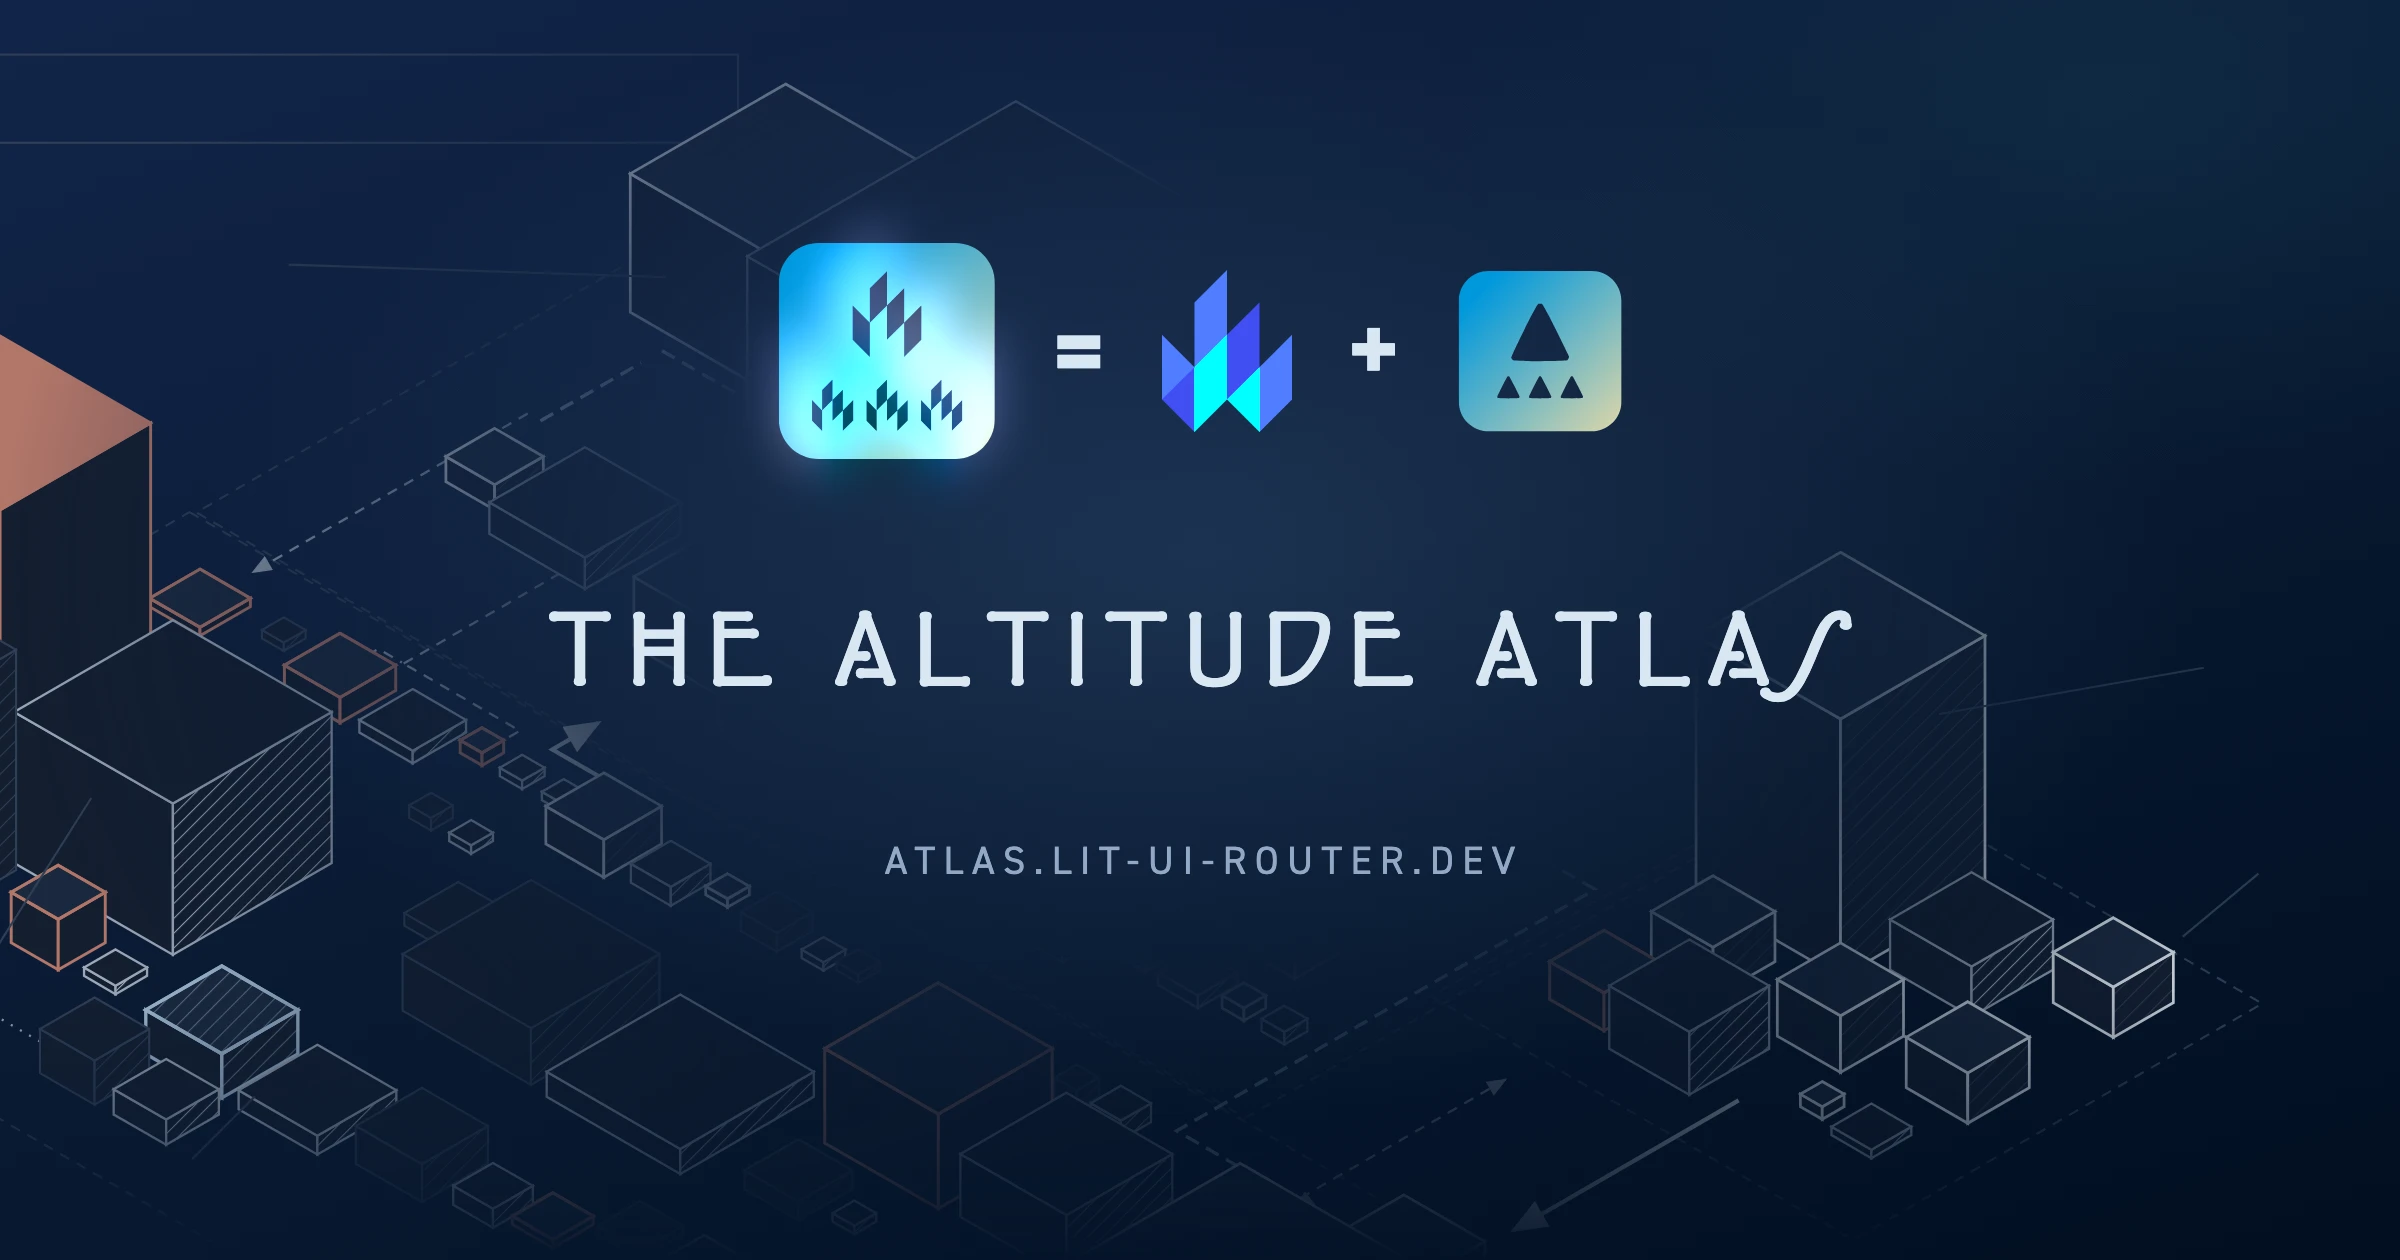
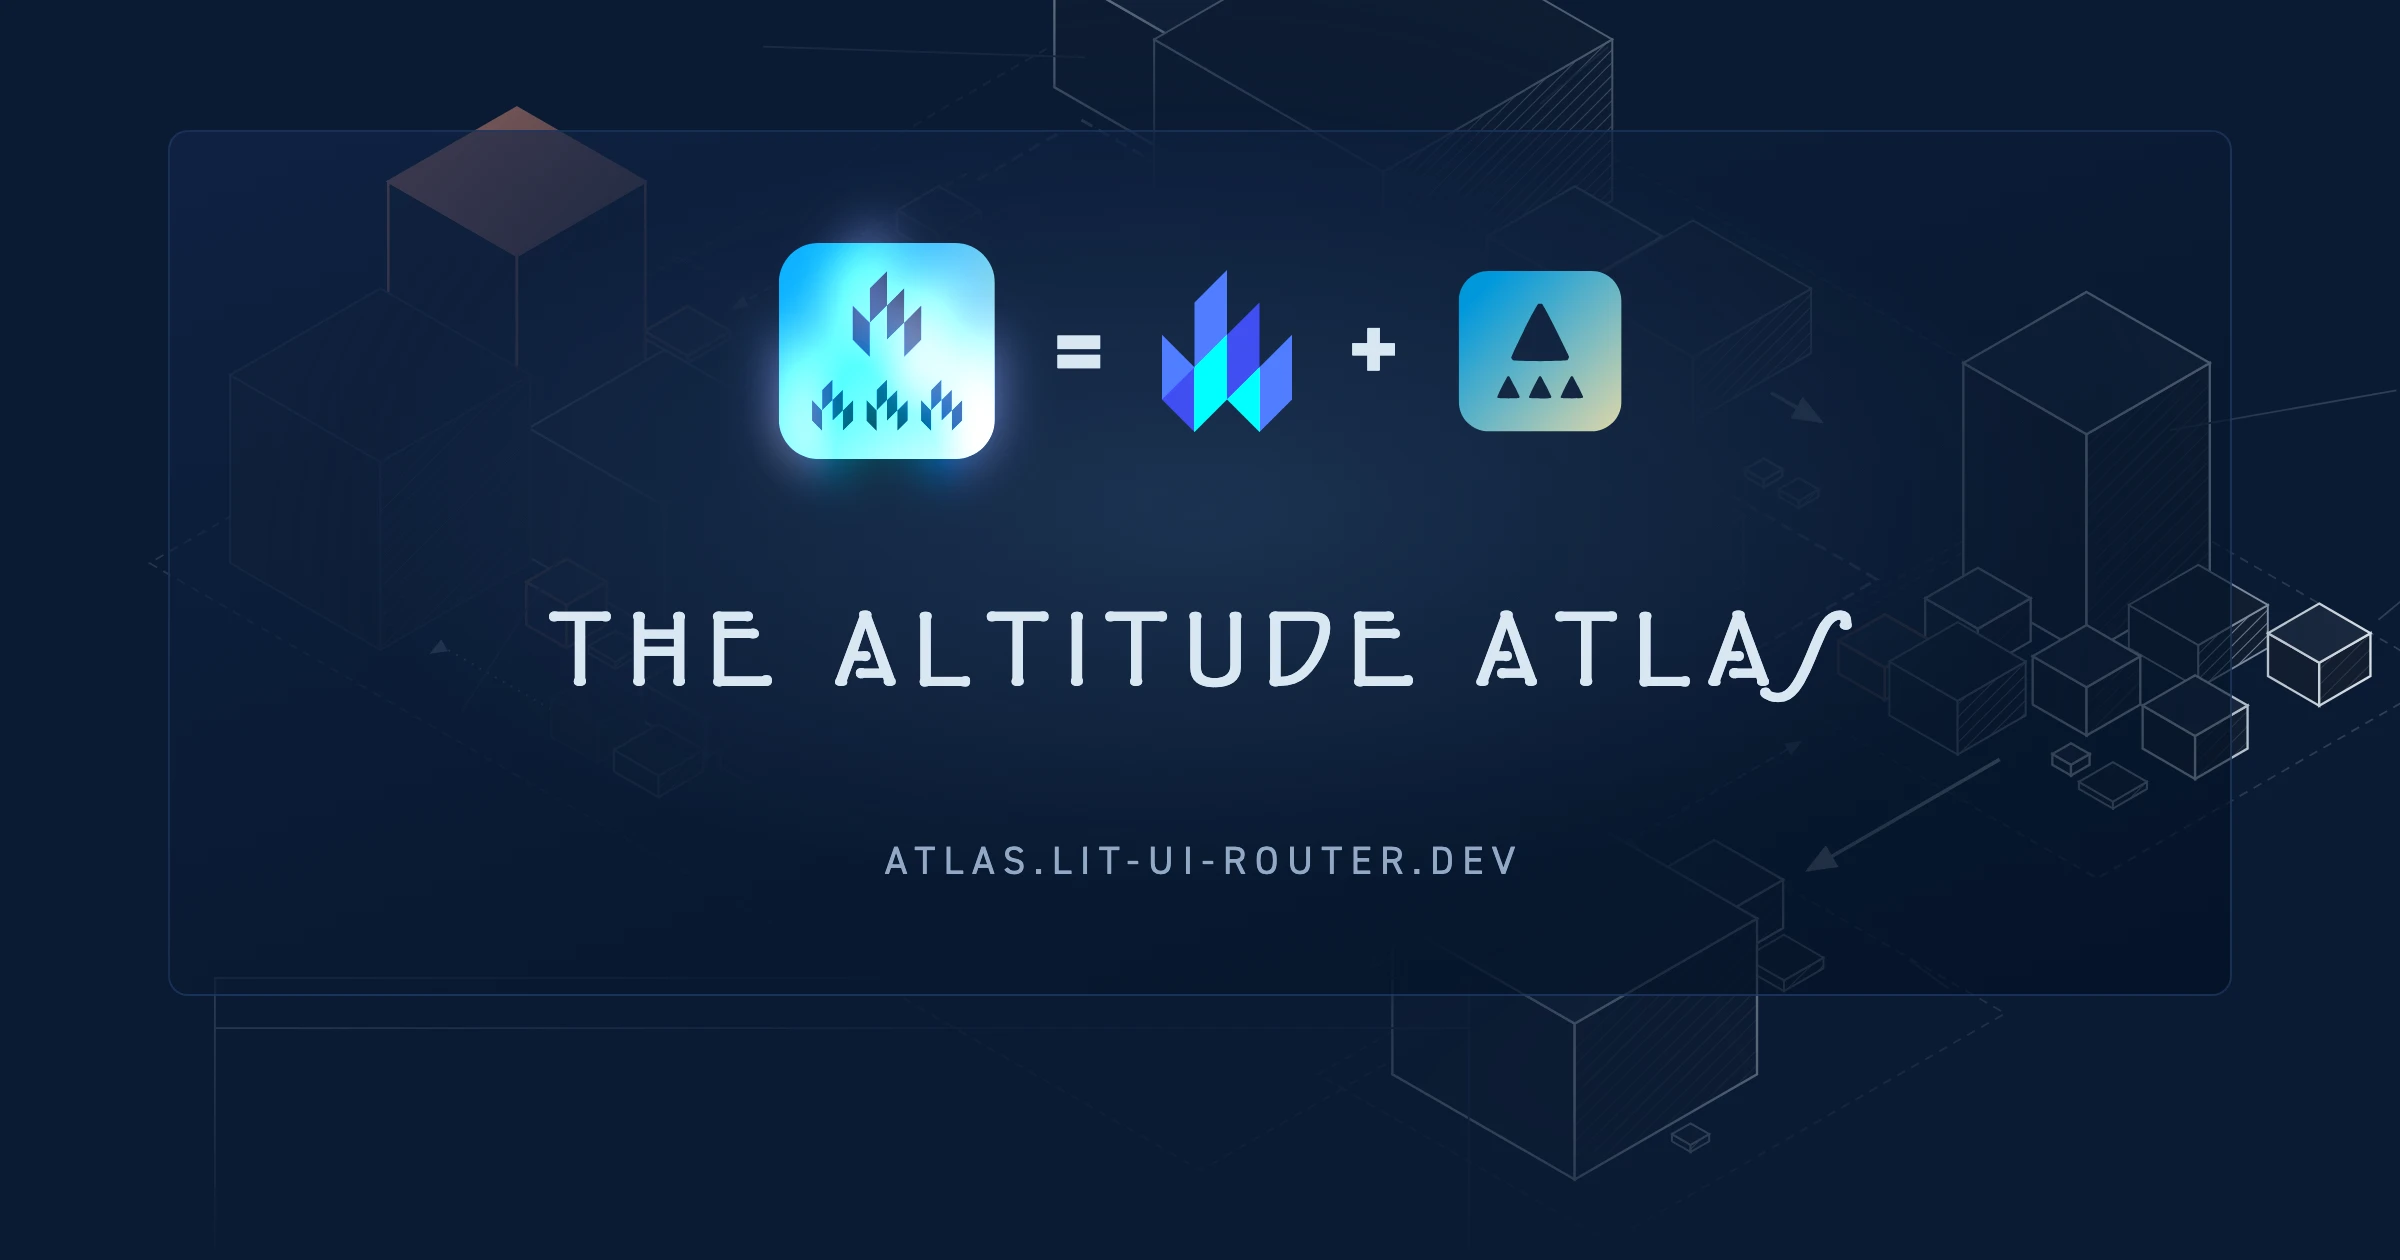
feat(atlas): the equation card sits on a framed pane over the panned city
The card's default build is the framed cut: sheet 7's city panned so its mass stands north-east
of the centred lockup with more of it in frame, a 1032 px pane with the ground gradient inside,
a hard 1 px edge in both themes, darker on the navy and lighter on the vellum, and the mark in
the rail's lit state with the glow lifted in dark and eased in light so the tile stays crisp.
The first card stays reachable as the plain variant. The three renders under app/public/brand
are re-shot and the about caption reads the present card. The user, across the rounds: "basically
panel increases contrast", "i like the g2 hard edge", "ship it hard edge; keep disc".

Claude-Session: https://claude.ai/code/session_01D1vGNxyKzYdyFrP83hW1Zr

diff --git a/www/atlas.lit-ui-router.dev/app/src/views.ts b/www/atlas.lit-ui-router.dev/app/src/views.ts
@@ -1479,7 +1479,7 @@ export const AboutView: RoutedLitTemplate<ManifestResolves> = (props) => {
             height="630"
             decoding="async"
           />
-          <figcaption>lit-ui-router.dev equals lit plus ui-router — the equation card, sheet 7's census city faded under the marks.</figcaption>
+          <figcaption>lit-ui-router.dev equals lit plus ui-router — the equation card: the lockup on a framed pane over sheet 7's census city.</figcaption>
         </figure>
         <h2>THE SET, ROUTED</h2>
         ${manifest ? html`<p>${unsafeHTML(manifest.cover.thesis)}</p>` : nothing}

diff --git a/www/atlas.lit-ui-router.dev/HISTORY.md b/www/atlas.lit-ui-router.dev/HISTORY.md
@@ -83,6 +83,7 @@ The cover carries no `sub` line and no REV of its own. Its history lives in two 
 - 2026-10-13, night, after the nineteenth, later yet, no rev clause: the plates in the round took a clickable legend (I12). The user: "bricks and probably the cities in the round but trickier -- benefit from clickable legend to navigate to the focus states", then "go ahead, card then I12". `partsList` in `views.ts` rendered one link per part under the plate's data strip, read from the plate's own JSON island through `readIsland` in `fragment.ts` (`bk-model`'s nine `bricks` in badge order, `cs-city`'s 46 `rows` in placed order, the working city included), each an `srefHref` on the plate's state with the part's number as `focus` at `location: 'replace'`, as a hotspot tap writes it, with `srefActiveClass` and `srefAriaCurrent` beside it; the pin follows the url through `cityPin` and the scene's `select`, so a click, a keyboard Enter, a reload of the url and the artifact's hash url all opened the same pin. The lit link wears the pin's lit state, the brick's own hue through `--hue` and the accent on the city, styled in `index.html` from the page's tokens: a wrapping row of data-face chips, hover gated to a fine pointer, a `:focus-visible` outline, the press. The list stands above the plate rather than in its bar because the bar is the generated fragment's and a directive cannot be attached to inserted markup. Typecheck, lint, the app build, the prerender (61 pages, 62/62 scoped, nine bricks hrefs and 46 city hrefs served) and the artifact build (14,253,460 bytes) passed, and `check-scenes.mjs` held its 84 checks; Chromium shots of `/bricks/` and `/city/` at 1280, light and dark, before, after and with brick 6 and member 38 clicked, read `?focus=` in the url and the pin open.
 - 2026-10-13, night, after the nineteenth, later yet again, no rev clause: the parts list moved from the app's chrome into the plate itself (I12). The user, on the list above the plate: "ok nice the legends are working. expected them to be inset inside the diagram as part of it", then "i think even inside the viewer not in the sticky bar next to the prose, as part of the interactive diagram themselves". `partsCss`, `partsMarkup` and `partsPanel` in `generator/mv-kit.mjs` are the one panel both scene modules emit inside their stage beside the `<model-viewer>`, on the key row's translucent paper with the plate's line border: the bricks' nine chips in badge order in the stage's top-left corner, each ring in its brick's hue, and the city's 46 in placed order as a two-column grid under ENLARGE in the top-right, the working city's with it; every chip an `<a class="pt" href="?focus=n" data-focus="n">` with its number ring and name. A chip click takes the hotspot's own path — `preventDefault`, then the scene's `tap` (the city's `key`, which frames the member as a keyboard pin does) and `atlasFocusPush`, so the url's `?focus=` moves through `main.ts`'s `atlas-focus` handler and the pin opens — and the scene's `pin()` lights the matching chip with class `on` and `aria-current`, so a hotspot tap, an arrow-key step and a chip click light the same chip; the href serves the prerendered no-script page, and in the artifact the click goes through the hash router. Under 720px the panel folds to a PARTS toggle in its corner; enlarged, it stays inside the viewer. `partsList`, `partsOf` and `Part` left `views.ts`, `readIsland` left `fragment.ts` and the `.parts` rules left `index.html`. A scratch generator build, typecheck, lint, the app build (61 pages, 62/62 scoped), the artifact build (14,274,823 bytes) and `check-scenes.mjs`'s 84 checks pass; a Chromium drive of `/bricks/` and `/city/` read `?focus=` after a chip click, the lit chip stepping with →, a reload reopening the pin, and the artifact's `#/bricks?focus=3`; shots at 1280, light and dark, with brick 6 and member 38 clicked, show the panel inside the viewer with the chip lit and the pin open.
 - 2026-10-13, night, after the nineteenth, later yet still, no rev clause: `generator/brick-hues.mjs` is born, the one hue table sheet 2's plate and the model in the round share, each consumer guarded against the other at build (sheet 2's record holds the three cuts and the user's words); `brick-iso.mjs`'s kit paints a brick's hue under one `BRICK_TINT` switch, `stroke` by default, for every sheet that moulds through it.
+- 2026-10-13, night, after the nineteenth, later yet still again, no rev clause: the equation card went through its rounds and ships framed. The user: "i think i would move card logo WSW... then the blur gradient behind it is kinda weirdly gray i don't know"; the first cut moved the lockup itself west-south-west, a misread the user corrected: "i still wanted text centered, but relative to the city i wanted it moved wsw so that more of the city filled the frame" — so the sheet panned, not the lettering: `city()` takes its viewBox, and the card draws sheet 7 at `-80 100 1340 703.5`, a window 17% wider than the first card's with the packages and apps districts in its upper right and the yard running out to the sheet's edge at the lower left, the lockup centred as it was. The halo rounds between: a blurred glow blended the rail's way, no glow, an accent disc, a hatched construction circle ("uncanny valley for smoothness or something"), poured glass with the city refracted under it ("projector slide / stained glass title card overlaid the blueprint drawing sheet set" — Chromium cannot displace a backdrop, so that cut redrew the city inside the pane), a smoked pane ("the layout of the panel is too random and not balanced and i thought the panel would look darker not a lighter glow"), a banner of it, and a feathered banner with the ground's gradient moved inside ("basically panel increases contrast. both would be nice if the gradient sat in the panel. banner can fill more of the frame"). The decision: "i like the g2 hard edge. also i liked the glow version of the lit-ui-router logo for this", then "is that the latest glow? i thought we had white punch thru more on light" — the card's glow had taken a blend mode the rail's glow image does not carry, which multiplied the veil away in light; removed, the mark is the rail's `.client-mark` at `--client-glow: 1`, the three layers and both blend modes as `app/index.html` sets them — and "ship it hard edge; keep disc that's fine i don't notice it yet lol", the disc being the accent wash inside the pane. The shipped construction: the panned crop; the lockup centred as always; a 1032 px (`86cqw`) pane in both themes with 56 px of padding, the page ground flat and the ground's `160deg` gradient and wash inside the pane, a hard `1px` edge in `--line` at 60% with a 10 px radius, `backdrop-filter: blur(6px)` under a fill at 60% and brightness 0.8 in dark (`--g-hi` → `--g-mid` → `--g-lo`) and at 70% and brightness 1.08 in light (`--g-hi` → `--paper` → `--ground`); the mark the rail's lit state with one glow tune per theme the rail does not carry — the user: "dark under the center flame it appears pretty empty no glow. in light tho it has the blue maybe just more visible / less contrast from the sides. just ends up looking less crisp" — `brightness(1.35)` on the dark glow, the light glow at opacity 0.4 (0.55 tried first, still soft), the lit copy's white at 1. `build-card.mjs` builds this with no flag; `--variant plain` keeps the first card reachable, byte-identical to its build; `--variant` also names the probe cuts, and `render-card.mjs` took `--out <dir>` and `--probe` (both themes at 1× as PNG, nothing else) for them. The outputs re-rendered at the same sizes: `card-light.webp` (55,280 bytes), `card-dark.webp` (63,212 bytes), `card.png` (362,519 bytes); the colophon's figcaption names the pane.
 - 2026-10-12, no rev clause (the cover narrates in prose only): the cabinet refreshed to origin/main @ eb72c568 (commit 2026-10-12), the seventeenth refresh, all 18 plates re-run at the one ref. Between bd10638a and the ref main took ten commits. They include the `lit-ui-router` 1.16.4 release (#1200), which follows the placeholder router's upgrade in the router directives (#1190), and the `ui-router-navigation-location-plugin` 1.1.0 release (#1201), which defaults `focusReset` to `'manual'` (#1162) and adds `interceptTraverse` (#1181). The examples moved to ^1.16.4 (#1203). NO member was born — 40 members, seven published — and no checklist table took a row; the yard reads `orphans 0`. The general survey holds at 920 tracked paths, 884 classified. The registry serves all seven releases under `latest` and no other tag: `lit-ui-router` 1.16.4 and the plugin 1.1.0, both published 2026-10-12 (was 1.16.3 and 1.0.2). The loop relocated 11 cites and re-texted 1. Three guards threw, and the frame audit stopped twice: the plugin's brick went from 1×1 to 1×2, and the flagship's and the plugin's annexes grew. Four plates re-filed without a figure moving: couplings (ranges only, versions re-lettered), handoff, mass3b and plate. The packages moved: city 29,173 sloc (was 29,023), spec 29,019 (was 28,535); the flagship 2,854 sloc (was 2,776), the plugin 208 (was 147); 7A's extent 12,648 of 20,178 (was 12,509 of 20,039); doors 186,158 min / 65,724 gz (was 182,512 / 65,108); the bundle 125,137 gz (was 124,625); shipped 32,064,856 raw / 5,028,259 gz (was 32,024,161 / 5,019,989); nm 174,690 lines (was 174,501). Steam reads 594 window commits (was 597): the window slid to 2026-07-14..2026-10-12 with the commit date. Weather reads 2,451 touches (was 2,434). The upstream plate holds at 81 consignments to 33 works, 14 sent, 67 watched, 76 tracked; only stars, downloads and three home-item states moved. The frame audit reads 0 viewBox escapes, 0 lettering-over-mass hits above 1 px and text-on-text 99 across 24 plates, the record. `build.mjs` exits 0. The app prerenders 61 pages plus the 404 with 52 redirects, and 62/62 renders are scoped. The 84 scene checks hold. Thumbs were re-shot for all 30 plates in both themes, 3,519,934 bytes. The T3 chain took 4 min 11 s.
 - 2026-10-11, no rev clause (the cover narrates in prose only): the cabinet refreshed to origin/main @ bd10638a (commit 2026-10-10), the sixteenth refresh, all 18 plates re-run at the one ref. Between 76ccefc0 and the ref main took one commit, #1196, which blends the docs site's hero logo in every browser: 2 files, `www/lit-ui-router.dev/.vitepress/theme/custom.css` and `index.ts`. NO member was born — 40 members, seven published — and no checklist table took a row; the yard reads `orphans 0`. The general survey holds at 920 tracked paths, 884 classified. The registry is unmoved, all seven releases under `latest` and no other tag; `census-npm.mjs` filed 0 leaf changes. Ten plates re-filed without a figure moving — bricks, bundle, couplings, doors, handoff, loop, mass3b, nm, plate and yard — and the loop's 52 cites hold, 0 relocated. The docs member moved: city 29,023 sloc (was 29,029), docs 751 (was 757); 7A's metered extent 12,509 of 20,039 (was 20,045); steam 597 window commits (was 596), the honest +1 now that the window opens at UTC midnight; weather 2,434 touches (was 2,433); shipped 32,024,161 raw / 5,019,989 gz (was 32,024,314 / 5,019,761). The upstream plate took the browser bugs the home record now cites: 81 consignments to 33 works (was 59 to 30), 14 sent, 67 watched, 76 tracked (was 11 / 48 / 55). The frame audit reads 0 viewBox escapes and 0 lettering-over-mass hits above 1 px, text-on-text 82 across 23 plates, sheet 14 included at 0 / 0 / 0. `build.mjs` exits 0, the app prerenders 33 pages plus the 404 with 26 redirects and 34/34 renders scoped, and the 84 scene checks hold. Thumbs re-shot for all 29 plates in both themes, 3,694,918 bytes. The T3 chain took 4 min 03 s.
 - 2026-10-11, later, no rev clause: the rail spells the client out. The user: "at this size i think i like it left aligned, maybe with an equation spelled out -- lit-ui-router.dev = ui-router + lit" and "in logos + links with title and/or alt". The rail head's first row is the equation in the docs site's own marks: the lit-ui-router logo over its flame, an equals sign, the UI-Router mark, a plus sign, the Lit flame, each logo a link with a title and an alt (lit-ui-router.dev, UI-Router, Lit) to the docs site, ui-router.github.io and lit.dev. The row is start-aligned; the operands are 1.5rem beside the 3rem mark, the operators in the data face. `generator/brand/ui-router.svg` joins the brand folder and `UIROUTER_URL` the generated module. The phone bar keeps the mark alone. A design review of the rail ran on the staged set before the commit, and its ranked list landed with it: the operators are set at the root size in the ink so the row reads as an equation; the mark carries no padding, so the operands and operators centre on the logo (the head's own padding takes the glow's overhang); the operands are sized by height, so the flame's letterbox no longer widens the plus's gap; the flame operand brightens in the dark; the row is a labelled group, "lit-ui-router.dev equals ui-router plus lit"; the sheets checkbox exists only in the phone layout, so it no longer takes the first tab stop or pops the collapsed rail open; the collapsed rail keeps the mark at 1.75rem in its strip and fades only the lettering; INDEX · ABOUT and the section kickers start on the entries' text edge; the phone bar's head inset is 16px like the list; the logo links give under the pointer. Left as the reviewer's optional items: an external-link cue on the logo links, larger coarse-pointer targets, and the head's air above the row.
